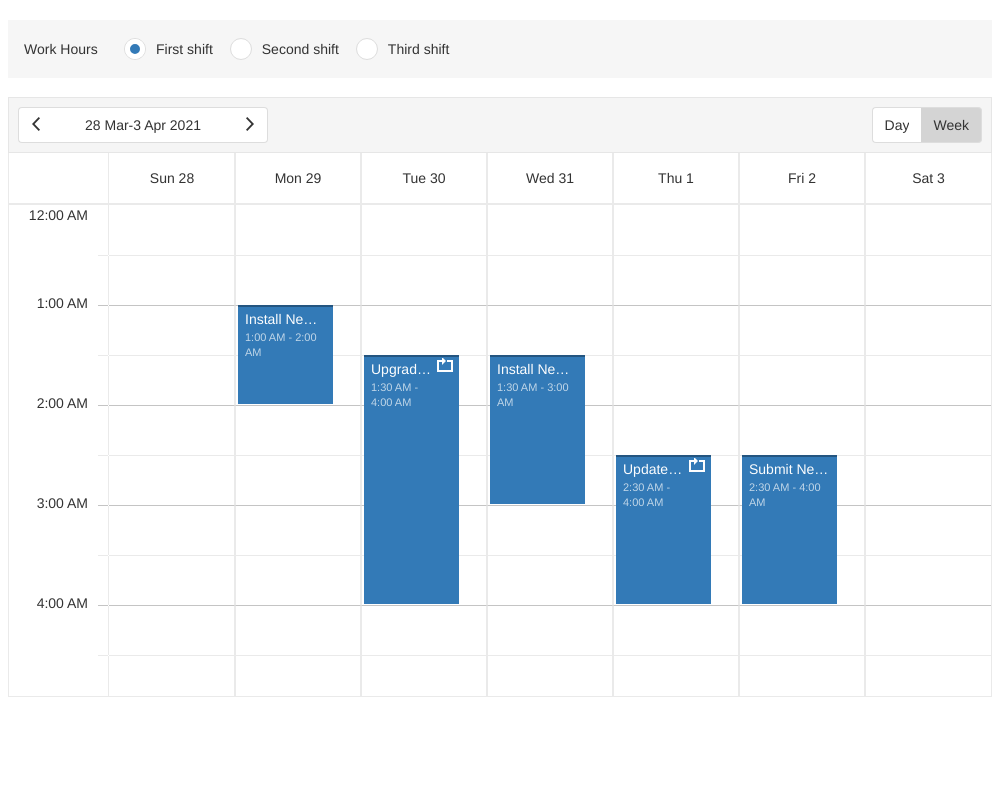
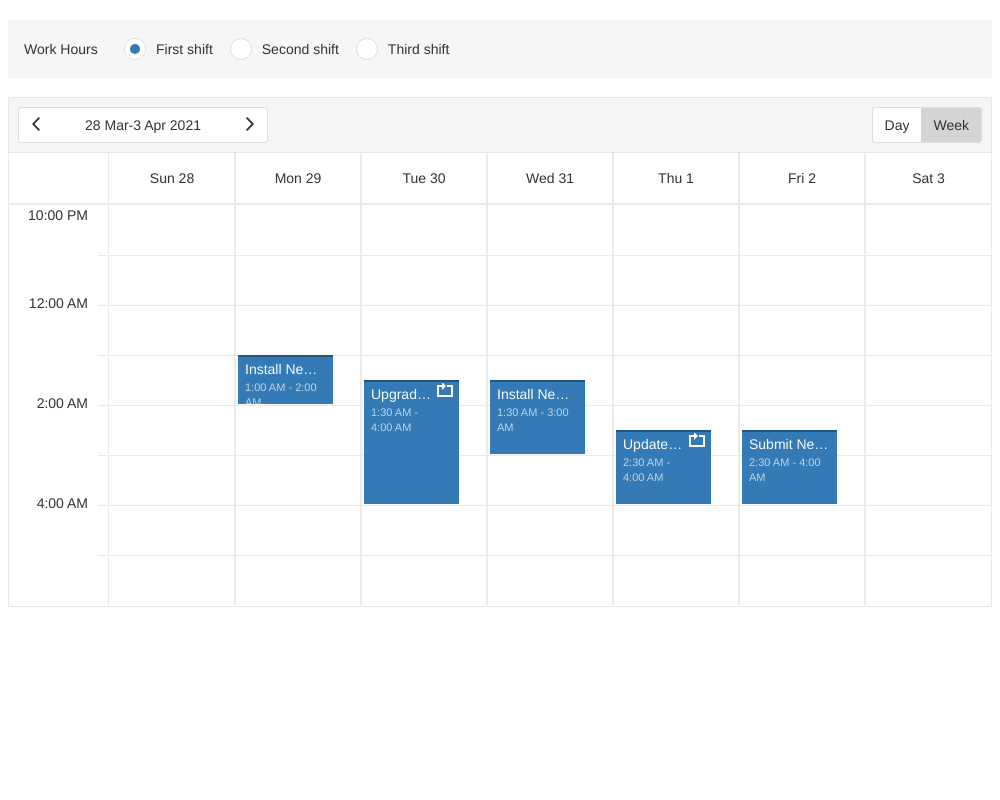
dxScheduler - enable offset property (#3016)
* Update client-size demos

* Refactoring Vue and ReactJs

* Update etalon

* Refactor react verison

diff --git a/JSDemos/Demos/Scheduler/WorkShifts/React/App.tsx b/JSDemos/Demos/Scheduler/WorkShifts/React/App.tsx
@@ -1,7 +1,7 @@
 import React from 'react';
 
 import Scheduler, { SchedulerTypes } from 'devextreme-react/scheduler';
-import RadioGroup, { RadioGroupTypes } from 'devextreme-react/radio-group';
+import RadioGroup from 'devextreme-react/radio-group';
 
 import { data, shifts } from './data.ts';
 
@@ -9,9 +9,7 @@ const currentDate = new Date(2021, 2, 30);
 const views: SchedulerTypes.ViewType[] = ['day', 'week'];
 
 const App = () => {
-  // eslint-disable-next-line no-unused-vars
-  const [offset, setOffset] = React.useState(0);
-  const onShiftChanged = React.useCallback((e: RadioGroupTypes.ValueChangedEvent) => { setOffset(e.value); }, []);
+  const [currentShift, setCurrentShift] = React.useState(shifts[0]);
 
   return <React.Fragment>
     <div className="options">
@@ -22,7 +20,7 @@ const App = () => {
             defaultValue={shifts[0]}
             items={shifts}
             layout= 'horizontal'
-            onValueChanged={onShiftChanged}
+            onValueChange={setCurrentShift}
           />
         </div>
       </div>
@@ -36,8 +34,8 @@ const App = () => {
       currentDate={currentDate}
       startDayHour= {0}
       endDayHour= {8}
-      // offset={offset}
-      height={600}
+      offset={currentShift.offset}
+      cellDuration={60}
       showAllDayPanel={false}
     />
   </React.Fragment>;

diff --git a/JSDemos/Demos/Scheduler/WorkShifts/ReactJs/App.js b/JSDemos/Demos/Scheduler/WorkShifts/ReactJs/App.js
@@ -6,11 +6,7 @@ import { data, shifts } from './data.js';
 const currentDate = new Date(2021, 2, 30);
 const views = ['day', 'week'];
 const App = () => {
-  // eslint-disable-next-line no-unused-vars
-  const [offset, setOffset] = React.useState(0);
-  const onShiftChanged = React.useCallback((e) => {
-    setOffset(e.value);
-  }, []);
+  const [currentShift, setCurrentShift] = React.useState(shifts[0]);
   return (
     <React.Fragment>
       <div className="options">
@@ -21,7 +17,7 @@ const App = () => {
               defaultValue={shifts[0]}
               items={shifts}
               layout="horizontal"
-              onValueChanged={onShiftChanged}
+              onValueChange={setCurrentShift}
             />
           </div>
         </div>
@@ -35,8 +31,8 @@ const App = () => {
         currentDate={currentDate}
         startDayHour={0}
         endDayHour={8}
-        // offset={offset}
-        height={600}
+        offset={currentShift.offset}
+        cellDuration={60}
         showAllDayPanel={false}
       />
     </React.Fragment>

diff --git a/JSDemos/Demos/Scheduler/WorkShifts/Vue/App.vue b/JSDemos/Demos/Scheduler/WorkShifts/Vue/App.vue
@@ -21,22 +21,25 @@
     current-view="week"
     :start-day-hour="0"
     :end-day-hour="8"
-    :height="600"
+    :offset="currentOffset"
+    :cell-duration="60"
     :show-all-day-panel="false"
   />
 </template>
 <script setup lang="ts">
-
+import { ref } from 'vue';
 import DxScheduler from 'devextreme-vue/scheduler';
 import DxRadioGroup, { DxRadioGroupTypes } from 'devextreme-vue/radio-group';
 import { appointments, shifts } from './data.ts';
 
 const views = ['day', 'week'];
 const currentDate = new Date(2021, 2, 30);
+const currentOffset = ref(shifts[0].offset);
 
-// eslint-disable-next-line no-unused-vars
 function onShiftChanged(e: DxRadioGroupTypes.ValueChangedEvent) {
+  currentOffset.value = e.value.offset as number;
 }
+
 </script>
 
 <style scoped>

diff --git a/JSDemos/Demos/Scheduler/WorkShifts/Vue/data.ts b/JSDemos/Demos/Scheduler/WorkShifts/Vue/data.ts
@@ -1,9 +1,9 @@
-export type Shift = {
+type Shift = {
   text: string;
   offset: number;
 };
 
-export type Appointment = {
+type Appointment = {
   text: string,
   startDate: string,
   endDate: string,
@@ -12,13 +12,13 @@ export type Appointment = {
 
 export const shifts: Shift[] = [{
   text: 'First shift',
-  offset: 0,
+  offset: -120,
 }, {
   text: 'Second shift',
-  offset: 480,
+  offset: 360,
 }, {
   text: 'Third shift',
-  offset: 960,
+  offset: 840,
 }];
 
 export const appointments: Appointment[] = [{

diff --git a/JSDemos/Demos/Scheduler/WorkShifts/Angular/app/app.component.html b/JSDemos/Demos/Scheduler/WorkShifts/Angular/app/app.component.html
@@ -4,9 +4,8 @@
     <div class="value">
       <dx-radio-group
         [items]="shifts"
-        [value]="shifts[0]"
+        [(value)]="currentShift"
         layout="horizontal"
-        (onValueChanged)="onShiftChanged($event)"
       >
       </dx-radio-group>
     </div>
@@ -21,7 +20,8 @@
   [currentDate]="currentDate"
   [startDayHour]="0"
   [endDayHour]="8"
-  [height]="600"
+  [cellDuration]="60"
+  [offset]="currentShift.offset"
   [showAllDayPanel]="false"
 >
 </dx-scheduler>

diff --git a/JSDemos/Demos/Scheduler/WorkShifts/Angular/app/app.component.ts b/JSDemos/Demos/Scheduler/WorkShifts/Angular/app/app.component.ts
@@ -21,16 +21,14 @@ export class AppComponent {
 
   currentDate: Date = new Date(2021, 2, 30);
 
-  offset = 0;
+  currentShift:Shift;
 
   constructor(service: Service) {
     this.appointments = service.getAppointments();
     this.shifts = service.getShifts();
-  }
 
-  onShiftChanged = (e) => {
-    // TODO this.offset = e.value;
-  };
+    this.currentShift = this.shifts[0];
+  }
 }
 
 @NgModule({

diff --git a/JSDemos/Demos/Scheduler/WorkShifts/Angular/app/app.service.ts b/JSDemos/Demos/Scheduler/WorkShifts/Angular/app/app.service.ts
@@ -14,13 +14,13 @@ export type Appointment = {
 
 export const shifts: Shift[] = [{
   text: 'First shift',
-  offset: 0,
+  offset: -120,
 }, {
   text: 'Second shift',
-  offset: 480,
+  offset: 360,
 }, {
   text: 'Third shift',
-  offset: 960,
+  offset: 840,
 }];
 
 export const appointments: Appointment[] = [{

diff --git a/JSDemos/Demos/Scheduler/WorkShifts/React/data.ts b/JSDemos/Demos/Scheduler/WorkShifts/React/data.ts
@@ -7,13 +7,13 @@ type Shift = {
 
 export const shifts: Shift[] = [{
   text: 'First shift',
-  offset: 0,
+  offset: -120,
 }, {
   text: 'Second shift',
-  offset: 480,
+  offset: 360,
 }, {
   text: 'Third shift',
-  offset: 960,
+  offset: 840,
 }];
 
 export const data: SchedulerTypes.Appointment[] = [{

diff --git a/JSDemos/Demos/Scheduler/WorkShifts/ReactJs/data.js b/JSDemos/Demos/Scheduler/WorkShifts/ReactJs/data.js
@@ -1,15 +1,15 @@
 export const shifts = [
   {
     text: 'First shift',
-    offset: 0,
+    offset: -120,
   },
   {
     text: 'Second shift',
-    offset: 480,
+    offset: 360,
   },
   {
     text: 'Third shift',
-    offset: 960,
+    offset: 840,
   },
 ];
 export const data = [

diff --git a/JSDemos/Demos/Scheduler/WorkShifts/jQuery/index.js b/JSDemos/Demos/Scheduler/WorkShifts/jQuery/index.js
@@ -7,8 +7,8 @@ $(() => {
     currentDate: new Date(2021, 2, 30),
     startDayHour: 0,
     endDayHour: 8,
-    // offset: 0,
-    height: 600,
+    offset: shifts[0].offset,
+    cellDuration: 60,
     showAllDayPanel: false,
   }).dxScheduler('instance');
 

diff --git a/JSDemos/Demos/Scheduler/WorkShifts/jQuery/data.js b/JSDemos/Demos/Scheduler/WorkShifts/jQuery/data.js
@@ -1,12 +1,12 @@
 const shifts = [{
   text: 'First shift',
-  offset: 0,
+  offset: -120,
 }, {
   text: 'Second shift',
-  offset: 480,
+  offset: 360,
 }, {
   text: 'Third shift',
-  offset: 960,
+  offset: 840,
 }];
 
 const data = [{
